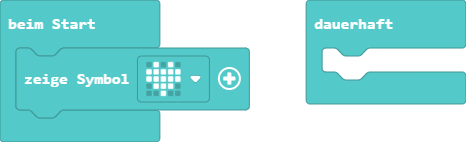
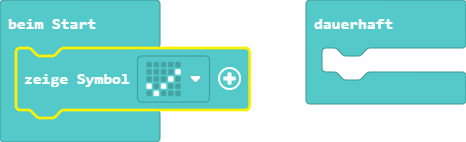
Aktualisiere main.blocks, main.ts

diff --git a/main.ts b/main.ts
@@ -1,4 +1,4 @@
-basic.showIcon(IconNames.Heart)
+basic.showIcon(IconNames.Yes)
 basic.forever(function () {
 	
 })
